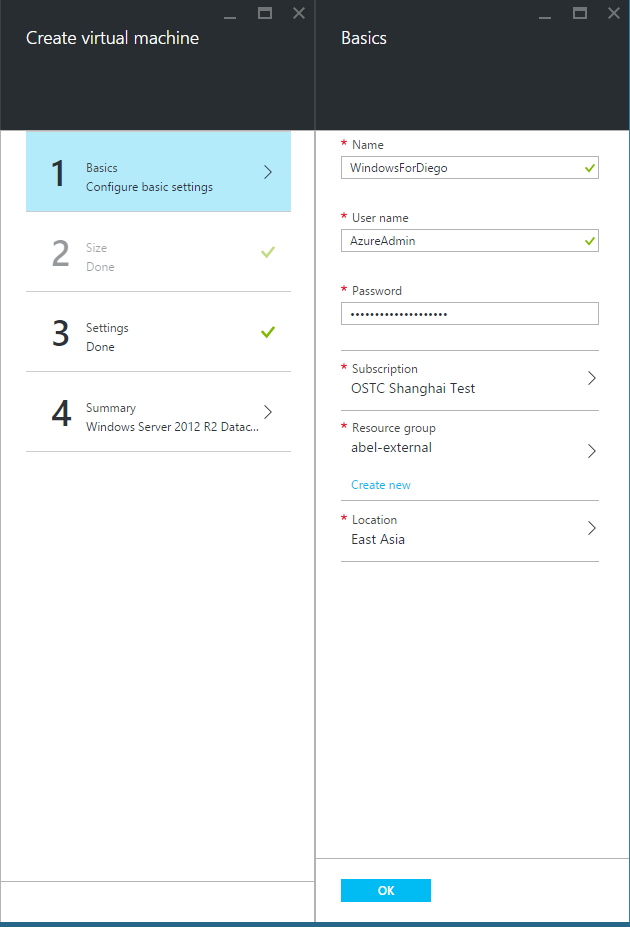
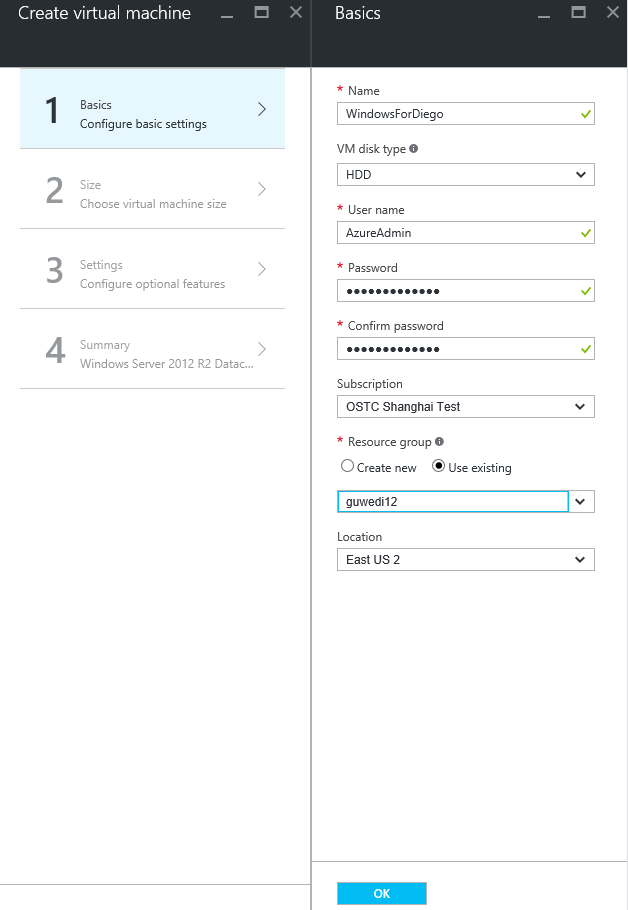
Update documents for deploying diego windows and pushing .net app

diff --git a/docs/advanced/push-your-first-net-application-to-cloud-foundry-on-azure/README.md b/docs/advanced/push-your-first-net-application-to-cloud-foundry-on-azure/README.md
@@ -6,9 +6,9 @@ This guide references [INSTALL.md](https://github.com/cloudfoundry-incubator/die
 
 * A deployment of Diego
 
-  You have a deployment of Cloud Foundry with Diego enabled.
+  You have a deployment of Cloud Foundry with Diego enabled. If you have followed the latest [guidance](../../guidance.md) via ARM templates on Azure, you already have Diego enabled by default.
 
-* A new subnet for Windows Servers ##
+* A new subnet for Windows Servers
 
   1. Sign in to Azure portal.
   2. Find your resource group which was created for your cloud foundry.
@@ -17,9 +17,7 @@ This guide references [INSTALL.md](https://github.com/cloudfoundry-incubator/die
 
     - Name: **Windows**, CIDR: **10.0.48.0/20**
 
-    With the subnet "Diego", you will have two subnets in your virtual network.
-
-    ![create-two-subnets](./create-two-subnets.png "create-two-subnets")
+    ![create-new-subnet](./create-new-subnet.png "create-new-subnet")
 
 ## 2 Update Cloud Foundry
 
@@ -30,23 +28,23 @@ This guide references [INSTALL.md](https://github.com/cloudfoundry-incubator/die
     - name: api_z1
       properties:
         nfs_server:
-          allow_from_entries: [10.0.16.0/20, 10.0.32.0/20]
+          allow_from_entries: [10.0.16.0/20]
     =>
     jobs:
     - name: api_z1
       properties:
         nfs_server:
-          allow_from_entries: [10.0.16.0/20, 10.0.32.0/20, 10.0.48.0/20]
+          allow_from_entries: [10.0.16.0/20, 10.0.48.0/20]
   ```
 
   ```
     properties:
       nfs_server:
-        allow_from_entries: [10.0.16.0/20, 10.0.32.0/20]
+        allow_from_entries: [10.0.16.0/20]
     =>
     properties:
       nfs_server:
-        allow_from_entries: [10.0.16.0/20, 10.0.32.0/20, 10.0.48.0/20]
+        allow_from_entries: [10.0.16.0/20, 10.0.48.0/20]
   ```
 
 2. Set BOSH deployment to cloud foundry
@@ -67,18 +65,13 @@ This guide references [INSTALL.md](https://github.com/cloudfoundry-incubator/die
   bosh -n deploy
   ```
 
-  >**NOTE:** When updating your cloud foundry, you may hit below error. You can ignore it.
-
-  ```
-      Failed updating job ha_proxy_z1 > ha_proxy_z1/0 (ad06f763-9eb2-4db3-a318-2367b7f47bbd) (canary): `ha_proxy_z1/0 (ad06f763-9eb2-4db3-a318-2367b7f47bbd)' is not running after update. Review logs for failed jobs: haproxy_config, haproxy (00:10:12)
-    Error 400007: `ha_proxy_z1/0 (ad06f763-9eb2-4db3-a318-2367b7f47bbd)' is not running after update. Review logs for failed jobs: haproxy_config, haproxy
-  ```
-
 ## 3 Add Windows stack
+
+### 3.1 Prepare Windows Virtual Machine
 
 1. Sign in to the Azure portal.
 
-2. On the Hub menu, click **New** > **Compute** > **Windows Server 2012 R2 Datacenter**.
+2. On the Hub menu, click **New** > **Virtual Machines** > **Windows Server 2012 R2 Datacenter**.
 
   ![select-windows-server-2k12R2](./windows-stack-select-windows-server-2k12R2.png "select-windows-server-2k12R2")
 
@@ -86,7 +79,7 @@ This guide references [INSTALL.md](https://github.com/cloudfoundry-incubator/die
 
   ![windows-stack-select-resource-manager](./windows-stack-select-resource-manager.png "windows-stack-select-resource-manager")
 
-4. On the **Create virtual machine** blade, click **Basics**. Enter a **Name** you want for the virtual machine, the administrative **User name**, and a strong **Password**. Please select the **subscription** which you used to deploy cloud foundry. And specify the existing **Resource group** which was created for your cloud foundry and the same **Location** as that for your default storage account.
+4. On the **Create virtual machine** blade, click **Basics**. Select **VM disk type**, enter a **Name** you want for the virtual machine, the administrative **User name**, and a strong **Password**. Please select the **subscription** which you used to deploy cloud foundry. And specify the existing **Resource group** which was created for your cloud foundry and the same **Location** as that for your default storage account.
 
   ![windows-stack-basics](./windows-stack-basics.png "windows-stack-basics")
 
@@ -141,16 +134,39 @@ This guide references [INSTALL.md](https://github.com/cloudfoundry-incubator/die
 
   ![windows-stack-disable-ie-enhanced-security-2.PNG](./windows-stack-disable-ie-enhanced-security-2.PNG "windows-stack-disable-ie-enhanced-security-2")
 
-18. Download [all-in-one](http://cloudfoundry.blob.core.windows.net/windowsstack/all-in-one.zip) and extract it. 
+### 3.2 Deploy Diego Windows on the VM
 
-19. Right click **all-in-one\setup.ps1** and click **Run with PowerShell**.
+1. Find compatible releases version.
 
-20. In command line run **all-in-one\generate.exe** with the following argument template:
+  [diego-windows-release](https://github.com/cloudfoundry/diego-windows-release/releases) and [garden-windows-release](https://github.com/cloudfoundry/garden-windows-release/releases) are required to deploy a Windows Diego.
+
+  Read release notes carefully and find the compatible version of `diego-windows-release` and `garden-windows-release`, please be noted that they also need to be compatible with diego ([diego-release](https://github.com/cloudfoundry/diego-release/releases)) version that you have deployed in [Prerequisites](#1-prerequisites).
+
+  For example, release note of [diego-windows-release](https://github.com/cloudfoundry/diego-windows-release/releases) v0.400:
+
+  ```
+  Built using cloudfoundry/diego-release@23caa9d; Compatible with garden-windows v0.149
+  ```
+
+  This means `diego-windows-release v0.400` is compatible with `garden-windows` v0.149 and `diego-release@23caa9d` (which is released as `diego-release` v0.1476.0). If your deployments in [Prerequisites](#1-prerequisites) is using `diego-release` v0.1476.0, these release versions work for you.
+
+2. Download releases and tools.
+
+  Once you have determined the release versions, go ahead to download releases and tools from the release link of `diego-windows-release` and `garden-windows`.
+
+  * from `garden-windows`, downloads
+    - setup.ps1
+    - GardenWindows.msi
+  * from `diego-windows-release`, downloads
+    - generate.exe
+    - DiegoWindows.msi
+
+3. Right click **setup.ps1** and click **Run with PowerShell**.
+
+4. In command line run **generate.exe** with the following argument template to generate **install.bat** in current directory.
 
   ```
   generate.exe -outputDir=[the directory where the script will output its files]
-               -windowsUsername=[the username of an administrator user for Containerizer to run as]
-               -windowsPassword=[the password for the same user] 
                -boshUrl=[the URL for your BOSH director, with credentials]
                -machineIp=[(optional) IP address of this cell. Auto-discovered if ommitted]
   ```
@@ -158,10 +174,16 @@ This guide references [INSTALL.md](https://github.com/cloudfoundry-incubator/die
   For example:
 
   ```
-  generate.exe -outputDir=.\diego -windowsUsername=AzureAdmin -windowsPassword="MyPass123" -boshUrl=https://admin:admin@10.0.0.4:25555 -machineIp=10.0.48.4
+  generate.exe -outputDir=.\ -boshUrl=https://admin:password@10.0.0.4:25555 -machineIp=10.0.48.4
   ```
 
-21. Run the **install.bat** script as Administrator in the output directory "**.\diego**". This will install both of the MSIs with all of the arguments they require.
+  You can get user and password from `jobs.properties.director.user_management` of your bosh deployment yaml file (e.g. `bosh.yml`).
+
+  >**Note:** Parameters for generate.exe might change for different releases, you can use run `generate.exe /?` to get help.
+
+5. Run the **install.bat** script as Administrator in the output directory "**.\**". This will install both of the MSIs with all of the arguments they require.
+
+  >**Note:** `GardenWindows.msi` and `DiegoWindows.msi` must be in the same directory with `install.bat`, if `-outputDir` in previous step specifies a different directory, you need to copy/move `GardenWindows.msi` and `DiegoWindows.msi` to that direcotry before running `install.bat`
 
 ## 4 Configure CF Environment
 
@@ -172,14 +194,12 @@ This guide references [INSTALL.md](https://github.com/cloudfoundry-incubator/die
   ```
   wget -O cf.deb http://go-cli.s3-website-us-east-1.amazonaws.com/releases/v6.14.1/cf-cli-installer_6.14.1_x86-64.deb
   sudo dpkg -i cf.deb
-  cf install-plugin Diego-Enabler -r CF-Community
   ```
 
 3. Configure your space
 
   ```
   cf login -a https://api.REPLACE_WITH_CLOUD_FOUNDRY_PUBLIC_IP.xip.io --skip-ssl-validation -u admin -p c1oudc0w
-  cf enable-feature-flag diego_docker
   cf create-org diego
   cf target -o diego
   cf create-space diego
@@ -203,7 +223,6 @@ This guide references [INSTALL.md](https://github.com/cloudfoundry-incubator/die
   ```
   cd DiegoMVC
   cf push diegoMVC -m 1g -s windows2012R2 -b https://github.com/ryandotsmith/null-buildpack.git --no-start -p ./
-  cf enable-diego diegoMVC
   cf start diegoMVC
   ```
 
@@ -213,31 +232,9 @@ This guide references [INSTALL.md](https://github.com/cloudfoundry-incubator/die
 
   ![diegomvc](./diegomvc.png "diegomvc")
 
-
 ## 7 Known Issues
 
-1. You may hit below error when executing 'cf enable-diego diegoMVC'. Just retry it.
-
-  ```
-  $ cf enable-diego diegoMVC
-  Setting diegoMVC Diego support to true
-  err 1 UnknownError - An unknown error occurred. [{
-     "error_code": "UnknownError",
-     "description": "An unknown error occurred.",
-     "code": 10001
-  }
-
-  ]
-  FAILED
-  Error:  UnknownError - An unknown error occurred.
-  {
-     "error_code": "UnknownError",
-     "description": "An unknown error occurred.",
-     "code": 10001
-  }
-  ```
-
-2. You may hit below error when executing 'cf start diegoMVC'. Just retry it.
+1. You may hit below error when executing 'cf start diegoMVC'. Just retry it.
 
   ```
   $ cf start diegoMVC
